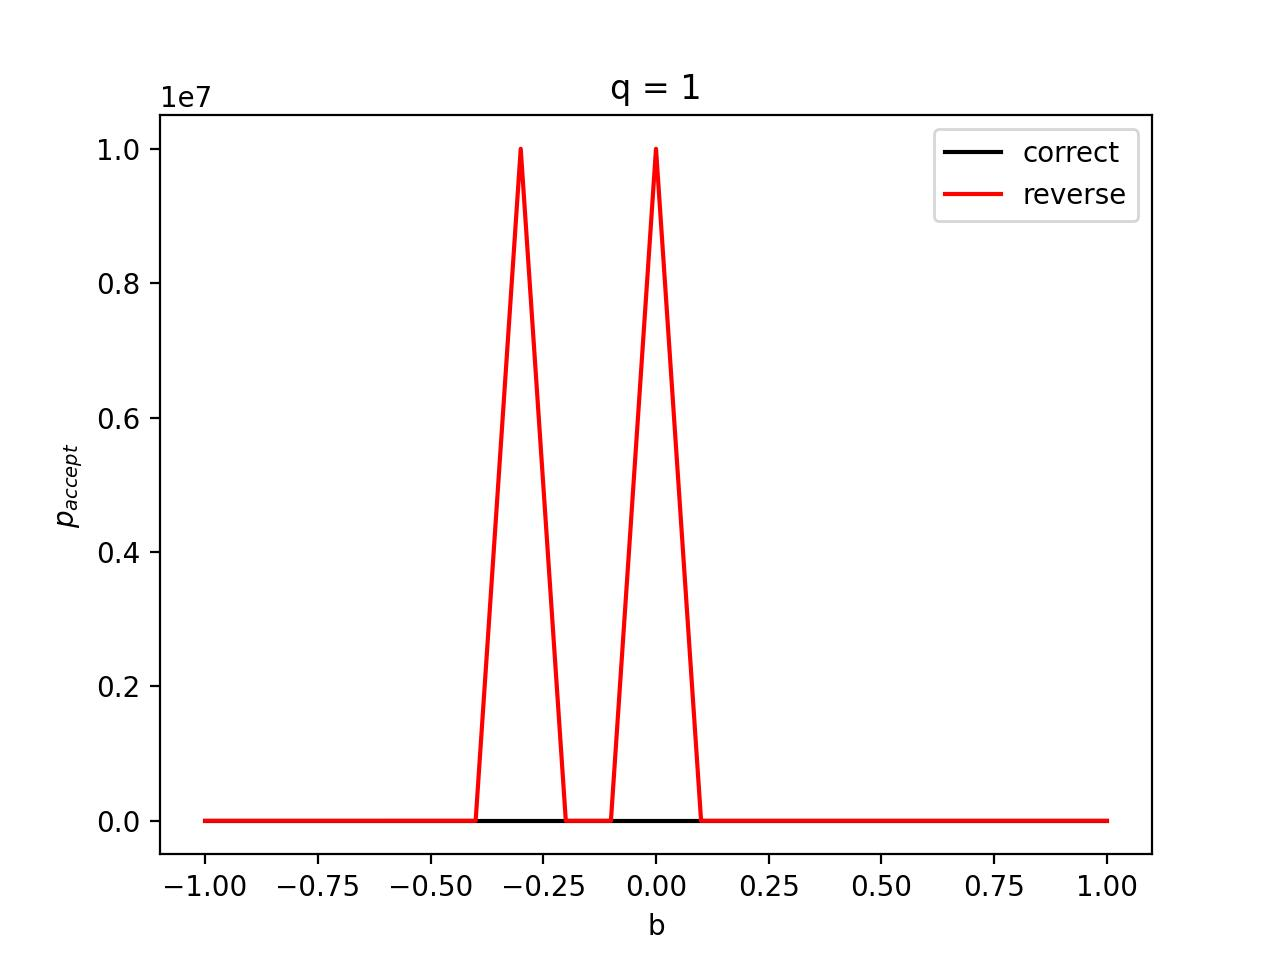
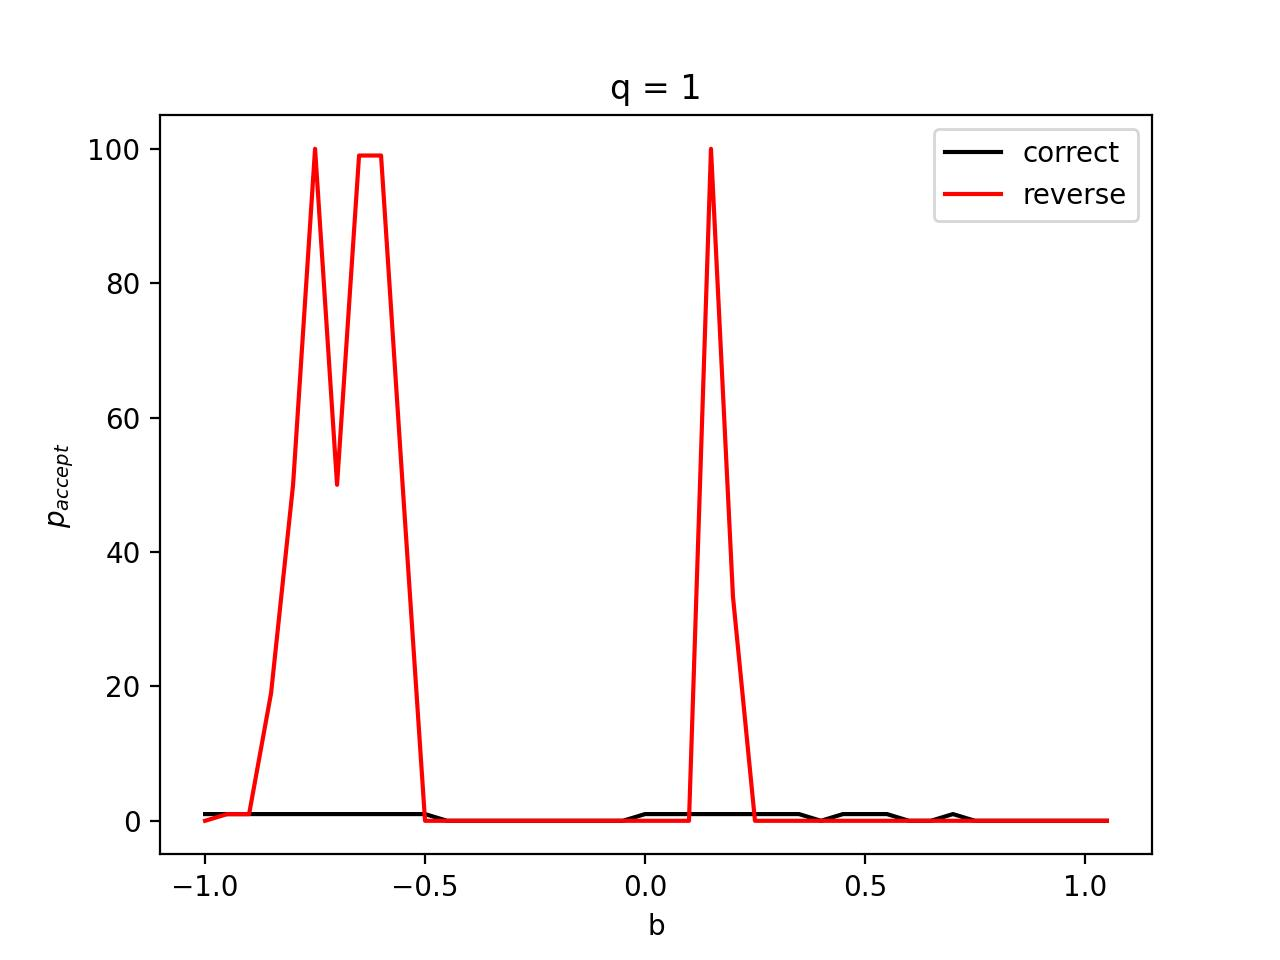
update files

diff --git a/causal-learn-trails/anm-expriments.py b/causal-learn-trails/anm-expriments.py
@@ -73,46 +73,16 @@ def multi_repetition(times, repetition_num, b, q, is_visualized, forward, backwa
 
 
 
-# The first panel
-is_visualized = False
-b = 0
-nums = np.arange(0.5, 2.001, 0.05)  # q
-proportion = []
-repetition_num = 100
-with ThreadPoolExecutor(max_workers=20) as executor:
-    start = time.time()
-    for q in nums:
-        q = round(q, 3)
-        times = 1
-        forward = 0
-        backward = 0
-        future = executor.submit(multi_repetition, times, repetition_num, b, q, is_visualized, forward, backward)
-    with tqdm(total=100, desc='Progress', unit='iteration') as pbar:
-        while not future.done():
-            pbar.update(1)
-            time.sleep(0.1)
-
-print(f">> 执行用时: {time.time()-start}s")
-plt.figure()
-proportion.sort(key=lambda x: x[0])
-plt.plot(nums, np.array(proportion)[:, 1:2], 'k', label='correct')
-plt.plot(nums, np.array(proportion)[:, 2:], 'r', label='reverse')
-plt.xlabel('q')
-plt.ylabel('$p_{accept}$')
-plt.title(f'b = 0')
-plt.legend()
-plt.savefig('b0_q05-20.jpg', dpi=200)
-plt.show()
-
-#
+# # The first panel
 # is_visualized = False
-# q = 1
-# nums = np.arange(-1, 1.1, 0.1)
+# b = 0
+# nums = np.arange(0.5, 2.001, 0.05)  # q
 # proportion = []
 # repetition_num = 100
 # with ThreadPoolExecutor(max_workers=20) as executor:
-#     for b in nums:
-#         b = round(b, 3)
+#     start = time.time()
+#     for q in nums:
+#         q = round(q, 3)
 #         times = 1
 #         forward = 0
 #         backward = 0
@@ -122,14 +92,44 @@ plt.show()
 #             pbar.update(1)
 #             time.sleep(0.1)
 #
+# print(f">> 执行用时: {time.time()-start}s")
 # plt.figure()
 # proportion.sort(key=lambda x: x[0])
 # plt.plot(nums, np.array(proportion)[:, 1:2], 'k', label='correct')
 # plt.plot(nums, np.array(proportion)[:, 2:], 'r', label='reverse')
-# plt.xlabel('b')
+# plt.xlabel('q')
 # plt.ylabel('$p_{accept}$')
-# plt.title(f'q = 1')
+# plt.title(f'b = 0')
 # plt.legend()
-# # plt.show()
-# plt.savefig('q1_bn1-1.jpg', dpi=200)
+# plt.savefig('b0_q05-20.jpg', dpi=200)
 # plt.show()
+
+#
+is_visualized = False
+q = 1
+nums = np.arange(-1, 1.1, 0.05)
+proportion = []
+repetition_num = 100
+with ThreadPoolExecutor(max_workers=20) as executor:
+    for b in nums:
+        b = round(b, 3)
+        times = 1
+        forward = 0
+        backward = 0
+        future = executor.submit(multi_repetition, times, repetition_num, b, q, is_visualized, forward, backward)
+    with tqdm(total=100, desc='Progress', unit='iteration') as pbar:
+        while not future.done():
+            pbar.update(1)
+            time.sleep(0.1)
+
+plt.figure()
+proportion.sort(key=lambda x: x[0])
+plt.plot(nums, np.array(proportion)[:, 1:2], 'k', label='correct')
+plt.plot(nums, np.array(proportion)[:, 2:], 'r', label='reverse')
+plt.xlabel('b')
+plt.ylabel('$p_{accept}$')
+plt.title(f'q = 1')
+plt.legend()
+# plt.show()
+plt.savefig('q1_bn1-1.jpg', dpi=200)
+plt.show()

diff --git a/SELF/SELF.py b/SELF/SELF.py
@@ -3,3 +3,75 @@
 # Product_name:  PyCharm
 # File_name:     SELF
 # @Time:         20:02  2023/11/14
+import numpy as np
+from xgboost import XGBRegressor
+from sklearn.datasets import load_iris
+from sklearn.model_selection import train_test_split
+from sklearn.metrics import accuracy_score
+
+
+class FunctionSet(object):
+    def __init__(self):
+        self.F = dict()
+
+    def __getitem__(self, item):
+        return self.F[f'{item}']
+
+    def __setitem__(self, key, value: XGBRegressor):
+        assert value
+        self.F[f'{key}'] = value
+
+    def __len__(self):
+        return len(self.F.keys())
+
+    def get_di(self, key):
+        return len(self.F[f'{key}'].get_score(importance_type='weight').keys())
+
+class Graph(object):
+    def __init__(self, n):
+        self.graph = np.zeros((n, n))
+
+    def set_edge(self, x, y):
+        assert x!=y
+        self.graph[x, y] = 1
+        self.graph[y, x] = -1
+
+    def remove_edge(self, x, y):
+        assert x!=y
+        self.graph[x, y] = 0
+        self.graph[y, x] = 0
+
+    def reverse_edge(self, x, y):
+        assert x!=y
+        self.graph[x, y], self.graph[y, x] = self.graph[y, x], self.graph[x, y]
+
+    def get_x_parent(self, x):
+        index = np.where(self.graph[x, :]==1)[0]
+        index = index.tolist()
+        return index if index != [] else None
+
+class SELF(object):
+    def __init__(self, dataset):
+        self.dataset = dataset
+        self.m = len(dataset)
+        self.functionSet = FunctionSet()
+        self.graph = Graph(self.m)
+
+    def compute_sum_log_i(self, i):
+        parent = self.graph.get_x_parent(i)
+        if not parent:
+
+
+    def compute_bic_i(self, i):
+        di = self.functionSet.get_di(i)
+        return di*np.log(self.m) / self.m / 2
+
+    def init_self(self):
+
+        pass
+
+    def get_xgboost_model(self):
+        model = XGBRegressor()
+        return model
+
+
